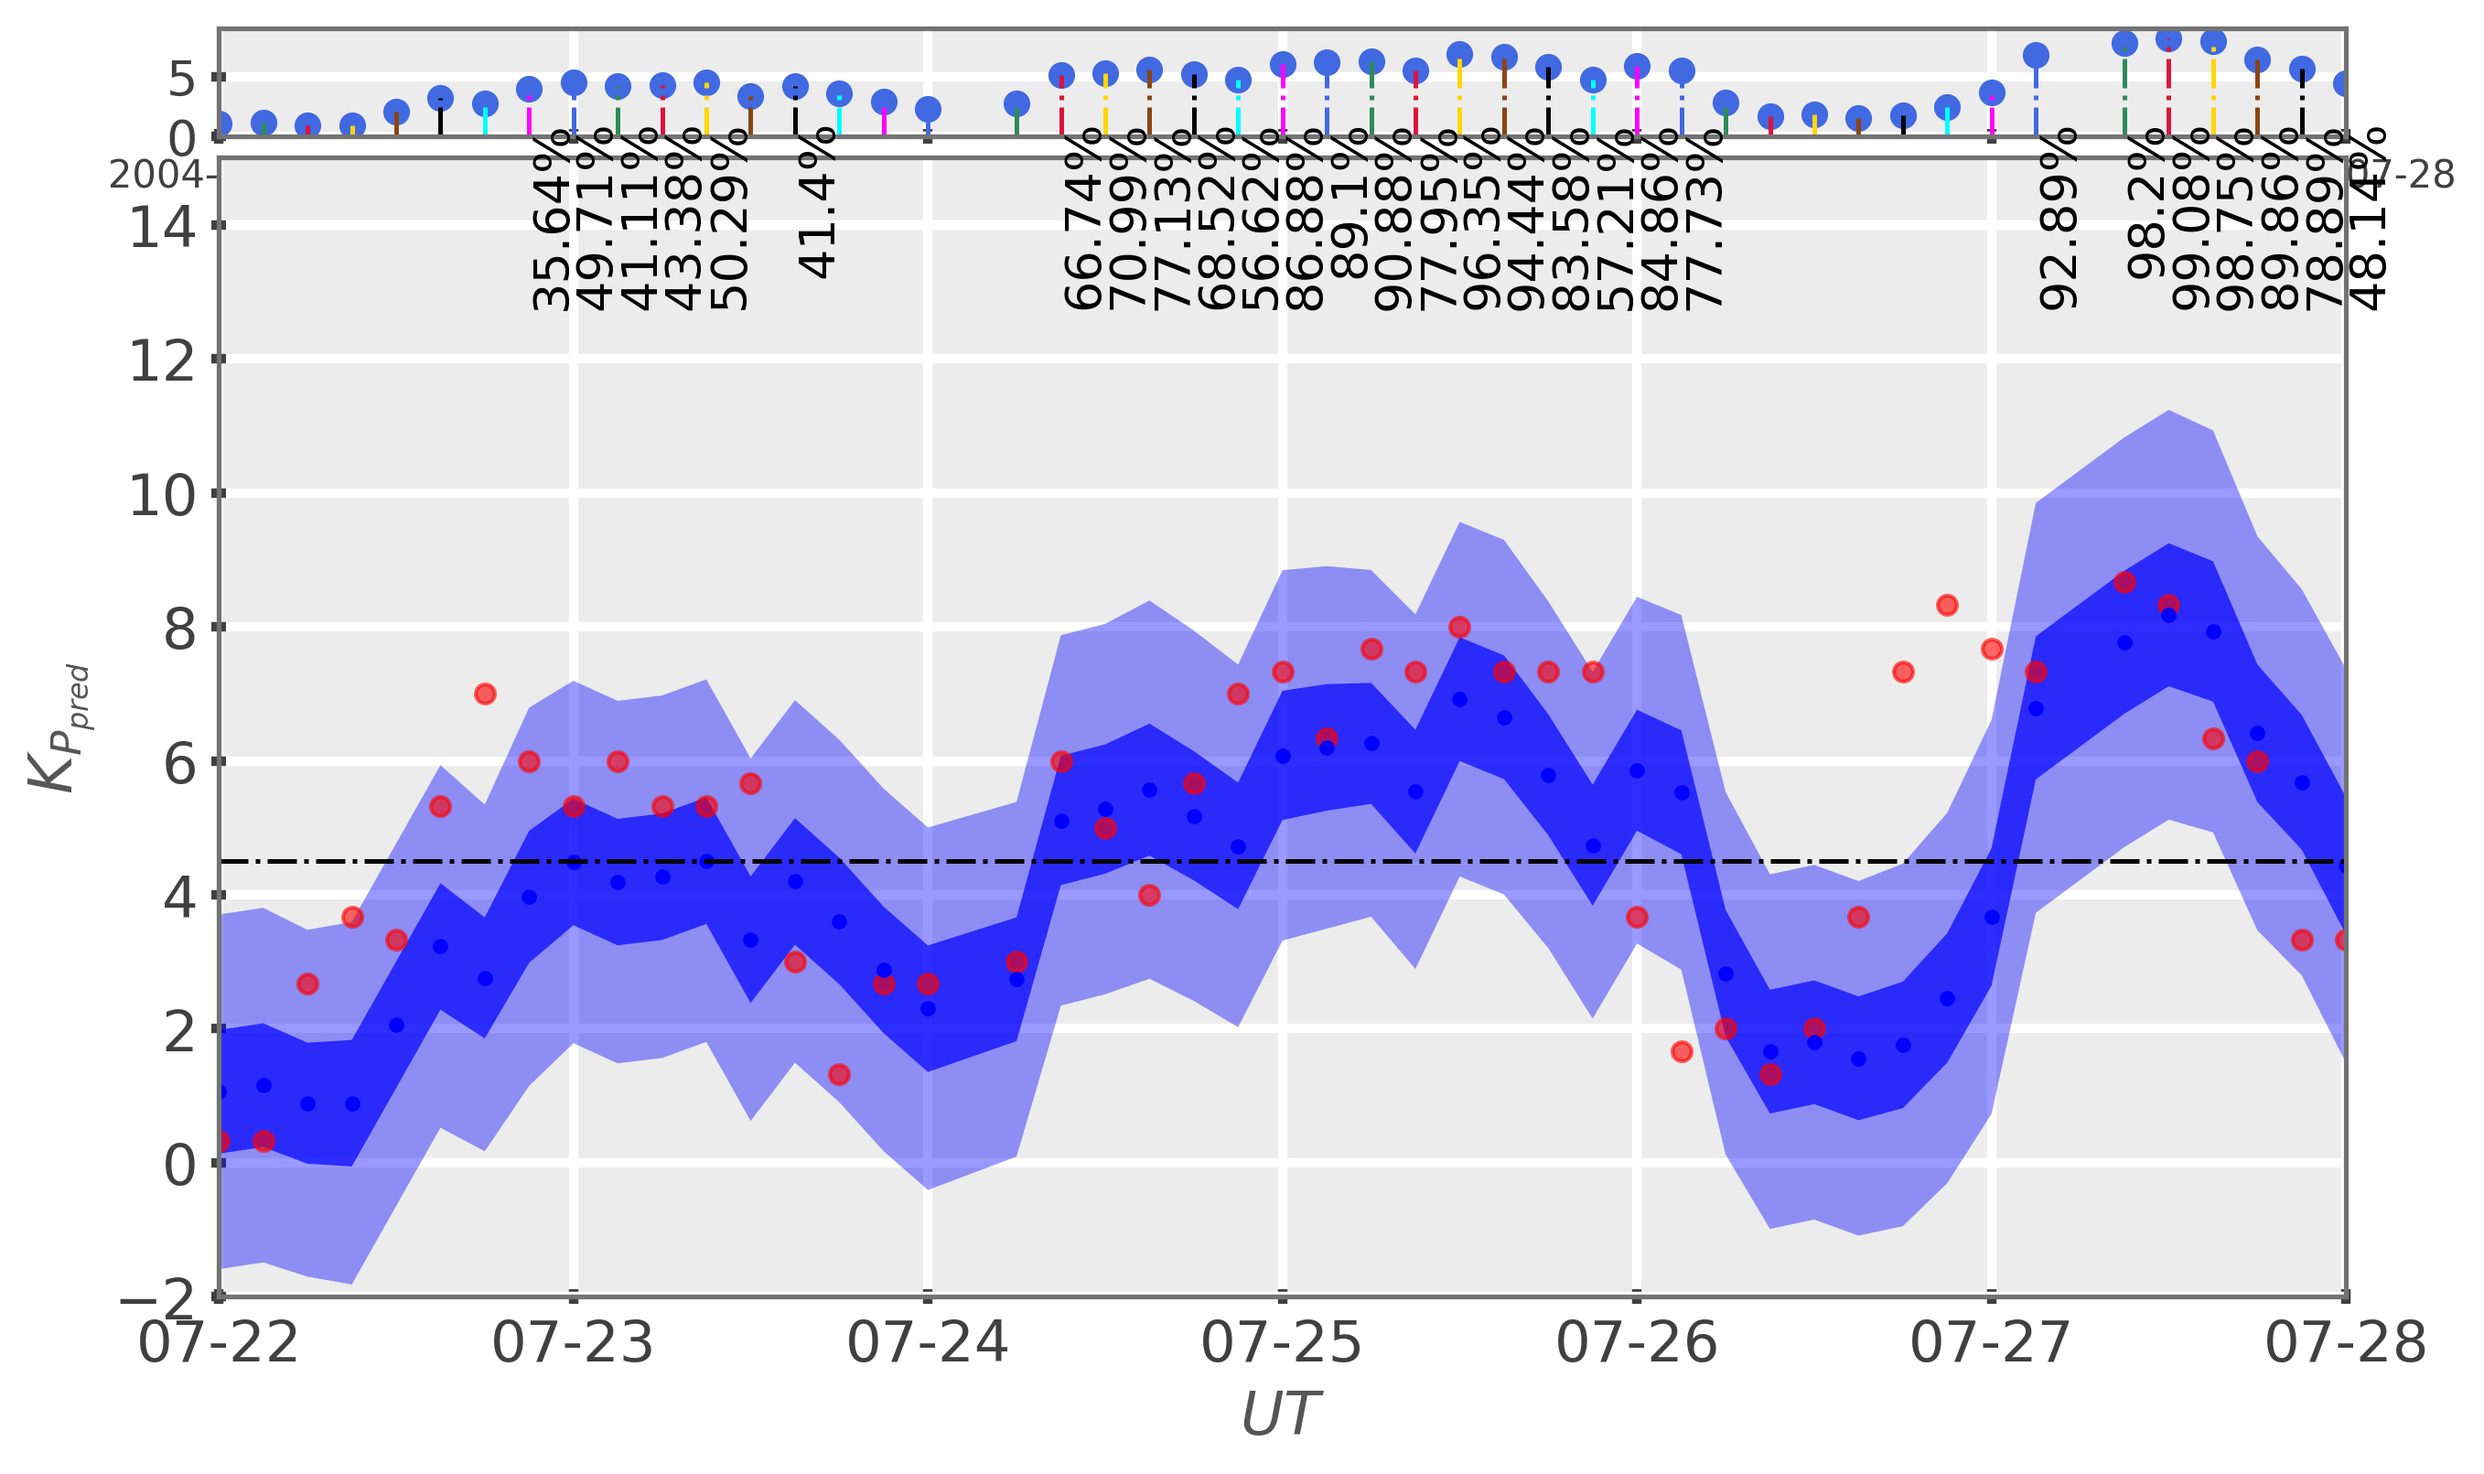
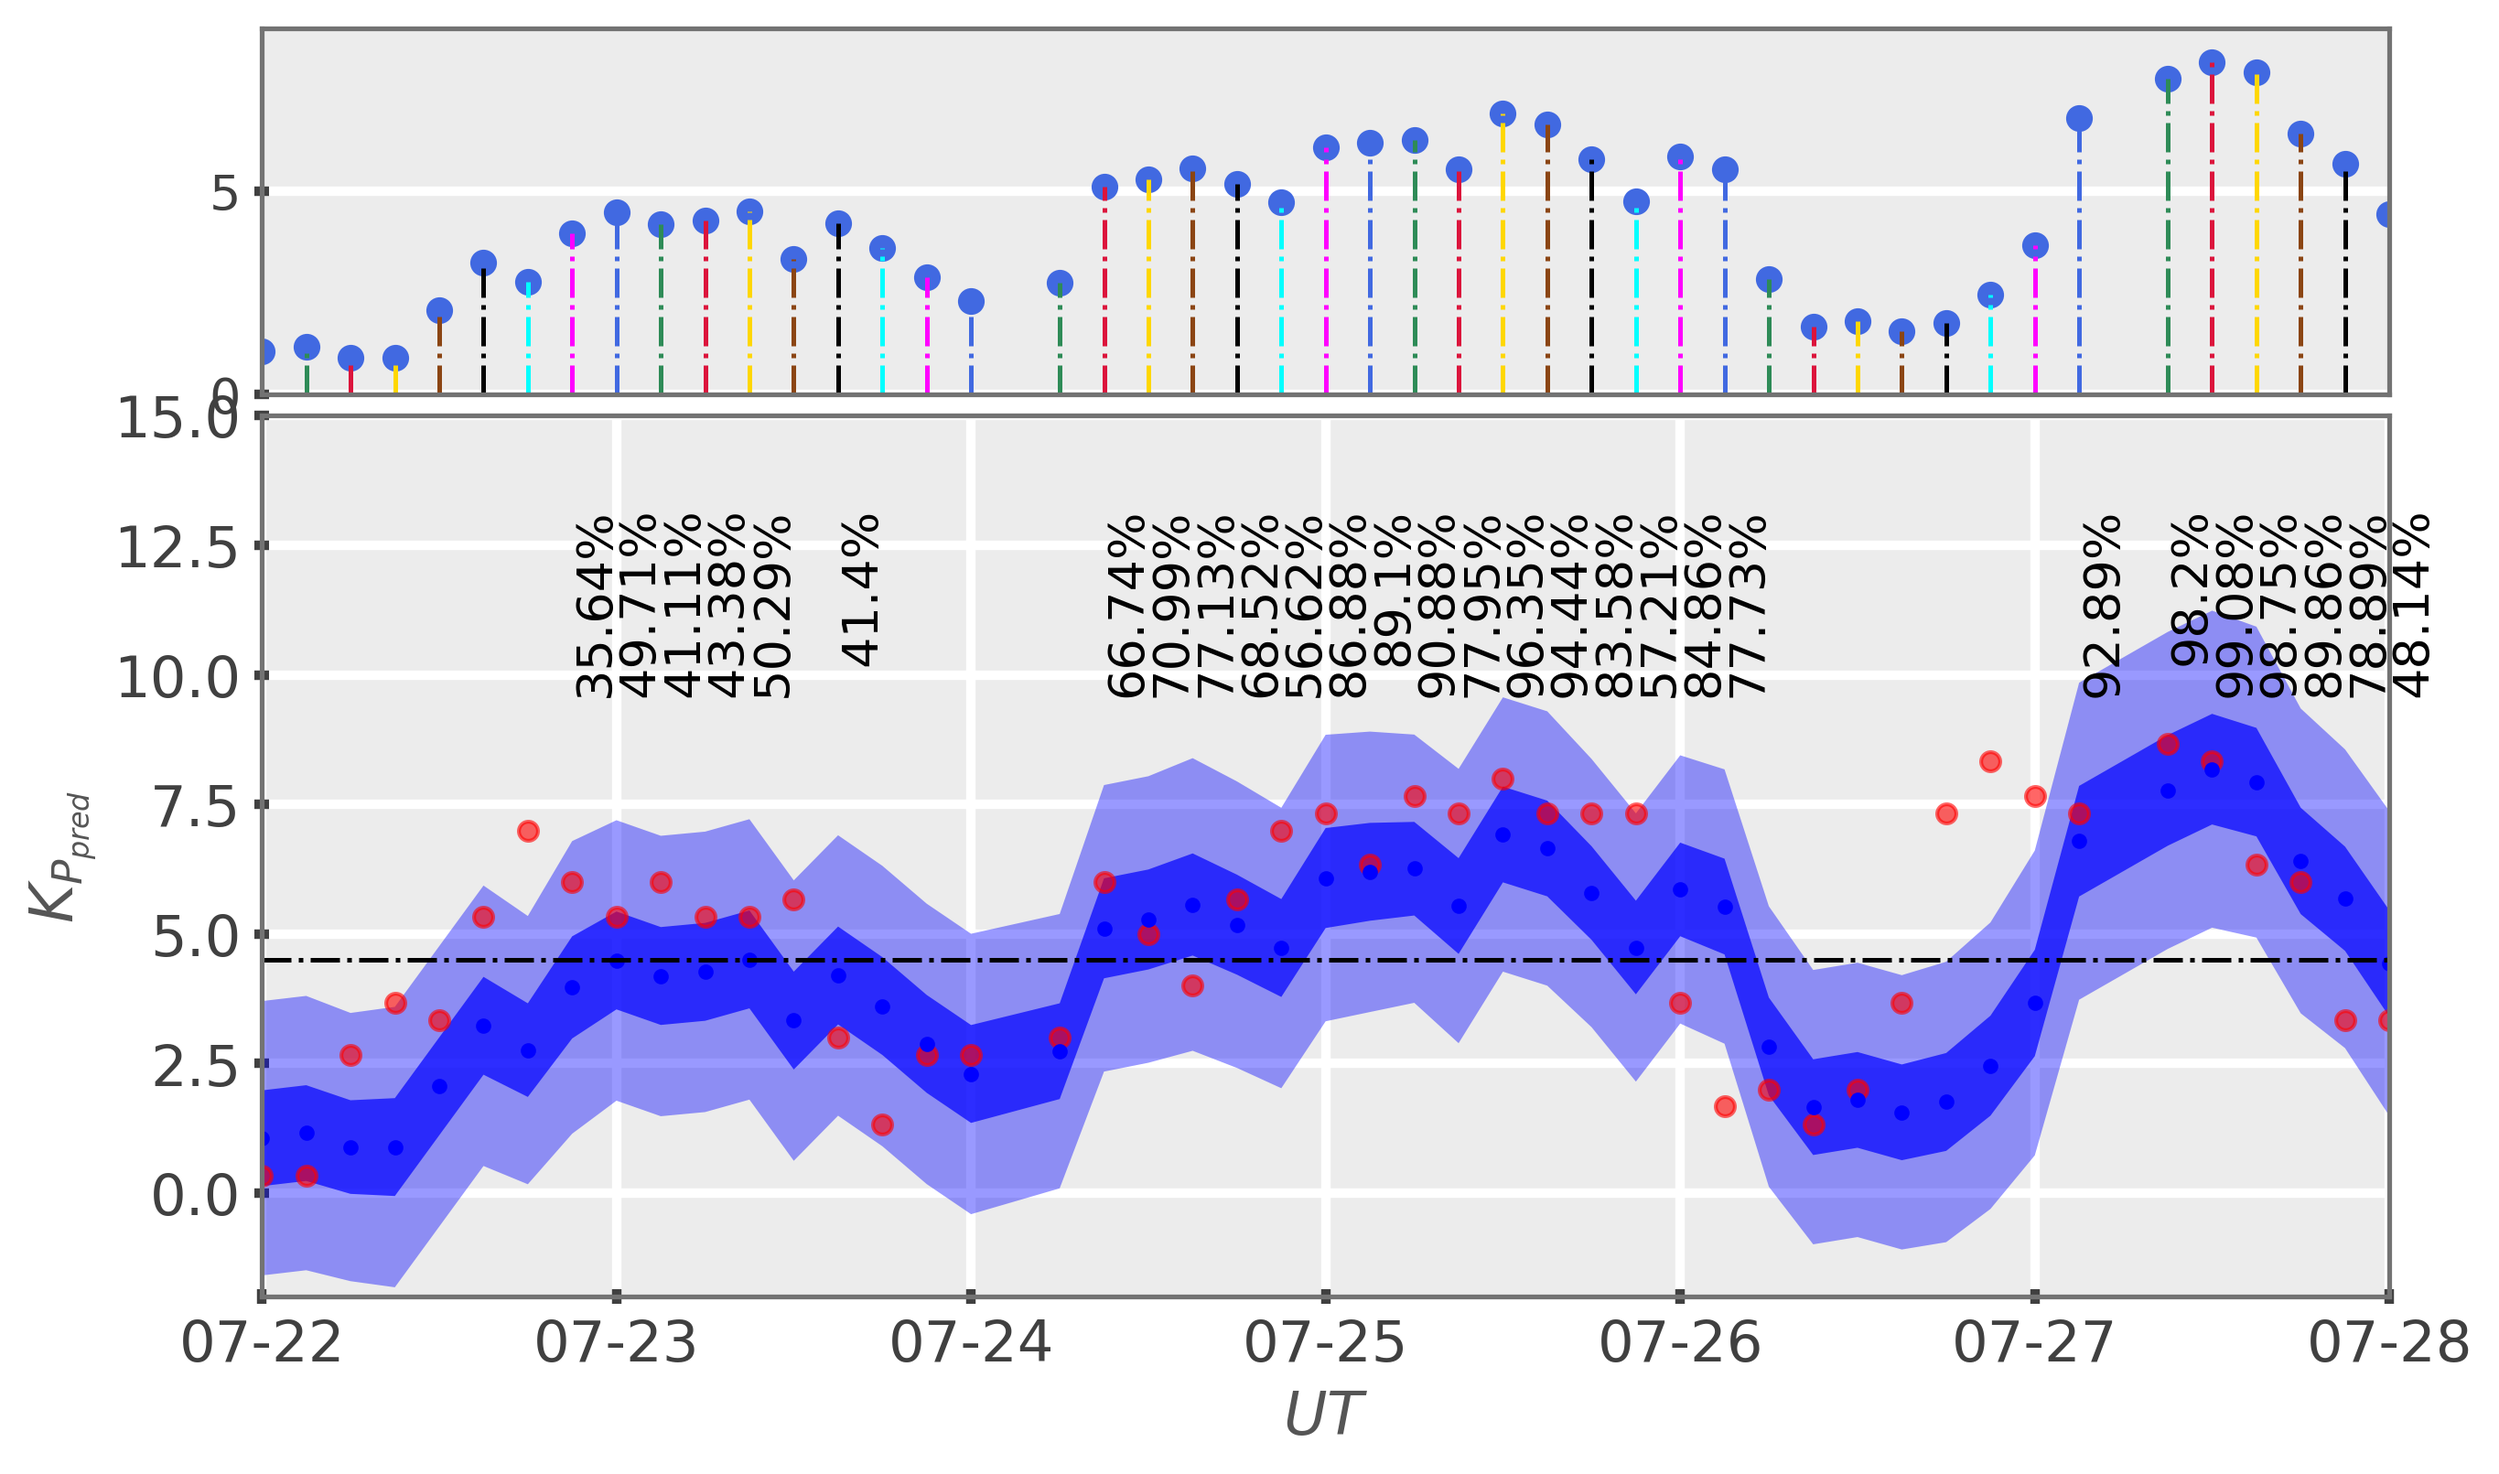
ft

diff --git a/util.py b/util.py
@@ -393,12 +393,14 @@ def proba_storm_forcast(model,trw):
     splot.style("spacepy")
     fig = plt.figure(figsize=(10,6))
     #fig, ax = plt.subplots(nrows=1,ncols=1,figsize=(10,6))
-    ax = fig.add_subplot(spec[0, 0])
+    ax = fig.add_subplot(spec[0:3, 0])
     markerline, stemlines, baseline = ax.stem(_o.dn, y_pred, '-.')
     ax.set_ylim(0,9)
+    ax.set_xticks([])
+    ax.set_xticklabels([])
     ax.set_xlim(dt.datetime(2004,7,22), dt.datetime(2004,7,28))
 
-    ax = fig.add_subplot(spec[1:, 0])
+    ax = fig.add_subplot(spec[3:, 0])
     fmt = matplotlib.dates.DateFormatter("%m-%d")
     ax.xaxis.set_major_formatter(fmt)
     ax.plot(_o.dn,y_obs,"ro",markersize=5,label=r"$K_{P_{obs}}$",alpha=0.6)
@@ -420,7 +422,7 @@ def proba_storm_forcast(model,trw):
     for m,s,d in zip(y_pred, sigma,_o.dn.tolist()):
         pr = np.round((1 - norm.cdf(4.5, m, s))*100,2)
         if pr > 30.:
-            ax.text(d,15,str(pr)+"%",rotation=90)
+            ax.text(d,12.5,str(pr)+"%",rotation=90)
         pass
     ax.set_ylim(-2,15)
     fig.savefig("out/stat/det.pred.%s.%d.forecast.png"%(model,trw),bbox_inches="tight")
